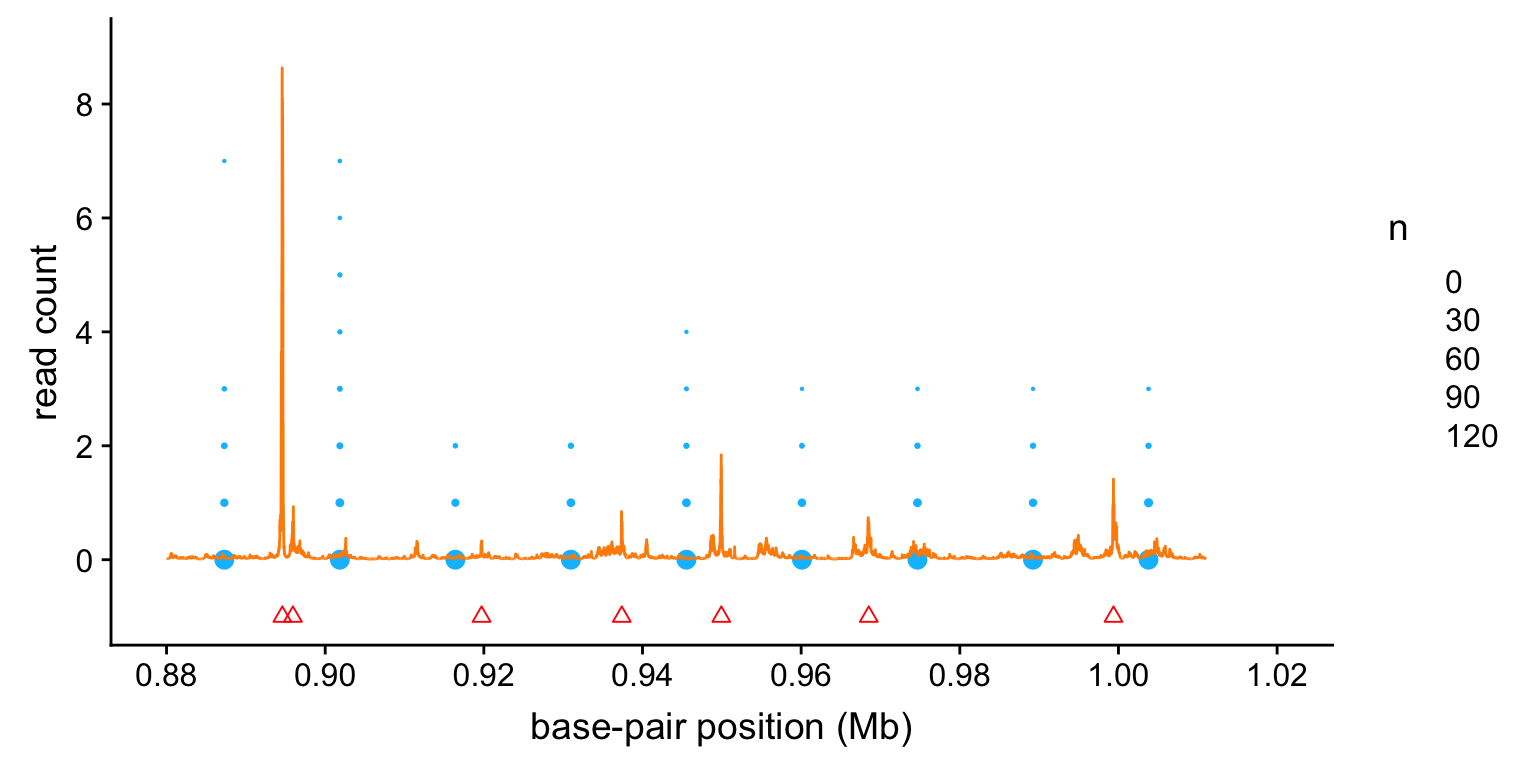
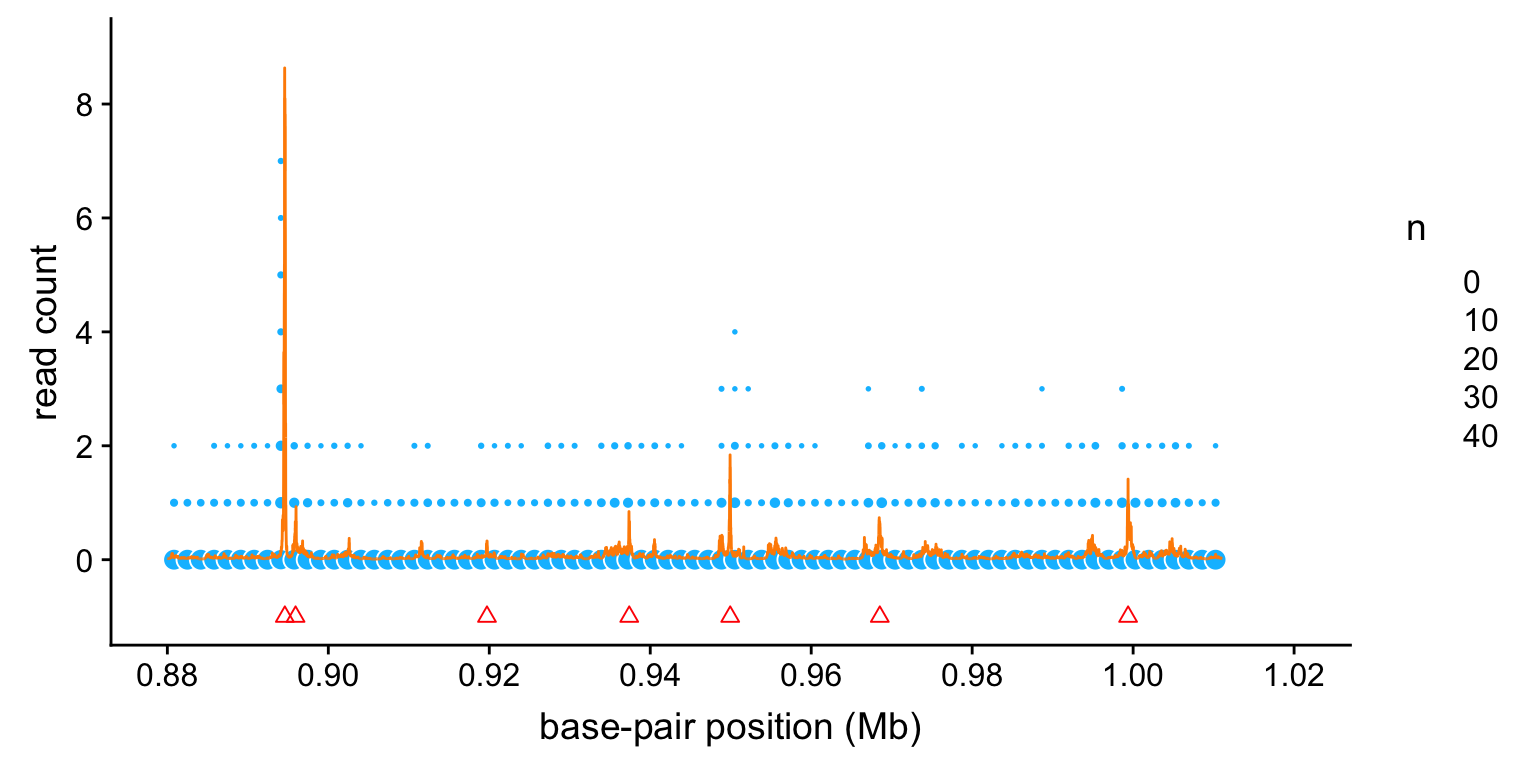
Adjusted chipseq R Markdown source.

diff --git a/docs/chipseq.html b/docs/chipseq.html
@@ -26,9 +26,6 @@
 <script src="site_libs/navigation-1.1/tabsets.js"></script>
 <link href="site_libs/highlightjs-9.12.0/textmate.css" rel="stylesheet" />
 <script src="site_libs/highlightjs-9.12.0/highlight.js"></script>
-<link href="site_libs/font-awesome-5.0.13/css/fa-svg-with-js.css" rel="stylesheet" />
-<script src="site_libs/font-awesome-5.0.13/js/fontawesome-all.min.js"></script>
-<script src="site_libs/font-awesome-5.0.13/js/fa-v4-shims.min.js"></script>
 
 <style type="text/css">code{white-space: pre;}</style>
 <style type="text/css">
@@ -288,10 +285,7 @@ div.tocify {
       </ul>
       <ul class="nav navbar-nav navbar-right">
         <li>
-  <a href="https://github.com/stephenslab/smash-paper">
-    <span class="fa fa-github"></span>
-     
-  </a>
+  <a href="https://github.com/stephenslab/smash-paper">source</a>
 </li>
       </ul>
     </div><!--/.nav-collapse -->
@@ -350,7 +344,7 @@ div.section {
 </li>
 <li>
 <details>
-<p><summary> <strong style="color:blue;">✔</strong> <strong>Repository version:</strong> <a href="https://github.com/stephenslab/smash-paper/tree/90e3ac9a78b39b961afaedf17a1434c9dd57b27f" target="_blank">90e3ac9</a> </summary></p>
+<p><summary> <strong style="color:blue;">✔</strong> <strong>Repository version:</strong> <a href="https://github.com/stephenslab/smash-paper/tree/38211a8cf292badd33a93f5f846c447475c17f1d" target="_blank">38211a8</a> </summary></p>
 Great! You are using Git for version control. Tracking code development and connecting the code version to the results is critical for reproducibility. The version displayed above was the version of the Git repository at the time these results were generated. <br><br> Note that you need to be careful to ensure that all relevant files for the analysis have been committed to Git prior to generating the results (you can use <code>wflow_publish</code> or <code>wflow_git_commit</code>). workflowr only checks the R Markdown file, but you know if there are other scripts or data files that it depends on. Below is the status of the Git repository when the results were generated:
 <pre><code>
 Ignored files:
@@ -382,8 +376,8 @@ Ignored files:
     Ignored:    dsc/code/Wavelab850/MEXSource/dst_ii.mexmac
     Ignored:    dsc/code/Wavelab850/MEXSource/dst_iii.mexmac
 
-Untracked files:
-    Untracked:  analysis/chipseq.R
+Unstaged changes:
+    Modified:   analysis/_site.yml
 
 </code></pre>
 Note that any generated files, e.g. HTML, png, CSS, etc., are not included in this status report because it is ok for generated content to have uncommitted changes.
@@ -414,6 +408,23 @@ Message
 </tr>
 </thead>
 <tbody>
+<tr>
+<td style="text-align:left;">
+Rmd
+</td>
+<td style="text-align:left;">
+<a href="https://github.com/stephenslab/smash-paper/blob/38211a8cf292badd33a93f5f846c447475c17f1d/analysis/chipseq.Rmd" target="_blank">38211a8</a>
+</td>
+<td style="text-align:left;">
+Peter Carbonetto
+</td>
+<td style="text-align:left;">
+2018-10-18
+</td>
+<td style="text-align:left;">
+wflow_publish(“chipseq.Rmd”)
+</td>
+</tr>
 <tr>
 <td style="text-align:left;">
 Rmd
@@ -487,7 +498,7 @@ counts &lt;- M[1,] + M[,2]</code></pre>
 peaks &lt;- read.macs.peaks(macs.file,min(bppos),max(bppos))</code></pre>
 <p>TO DO: Describe what is being shown in the plot.</p>
 <pre class="r"><code>create.chipseq.plot(bppos/1e6,counts,res$est,(peaks$start + peaks$end)/2e6,
-                    nbreaks = 10) +
+                    nbreaks = 80) +
   scale_x_continuous(limits = c(0.88,1.02),breaks = seq(0.88,1.02,0.02)) +
   scale_y_continuous(limits = c(-1,9),breaks = seq(0,8,2))</code></pre>
 <p><img src="figure/chipseq.Rmd/plot-smash-estimates-1.png" width="768" style="display: block; margin: auto;" /></p>
